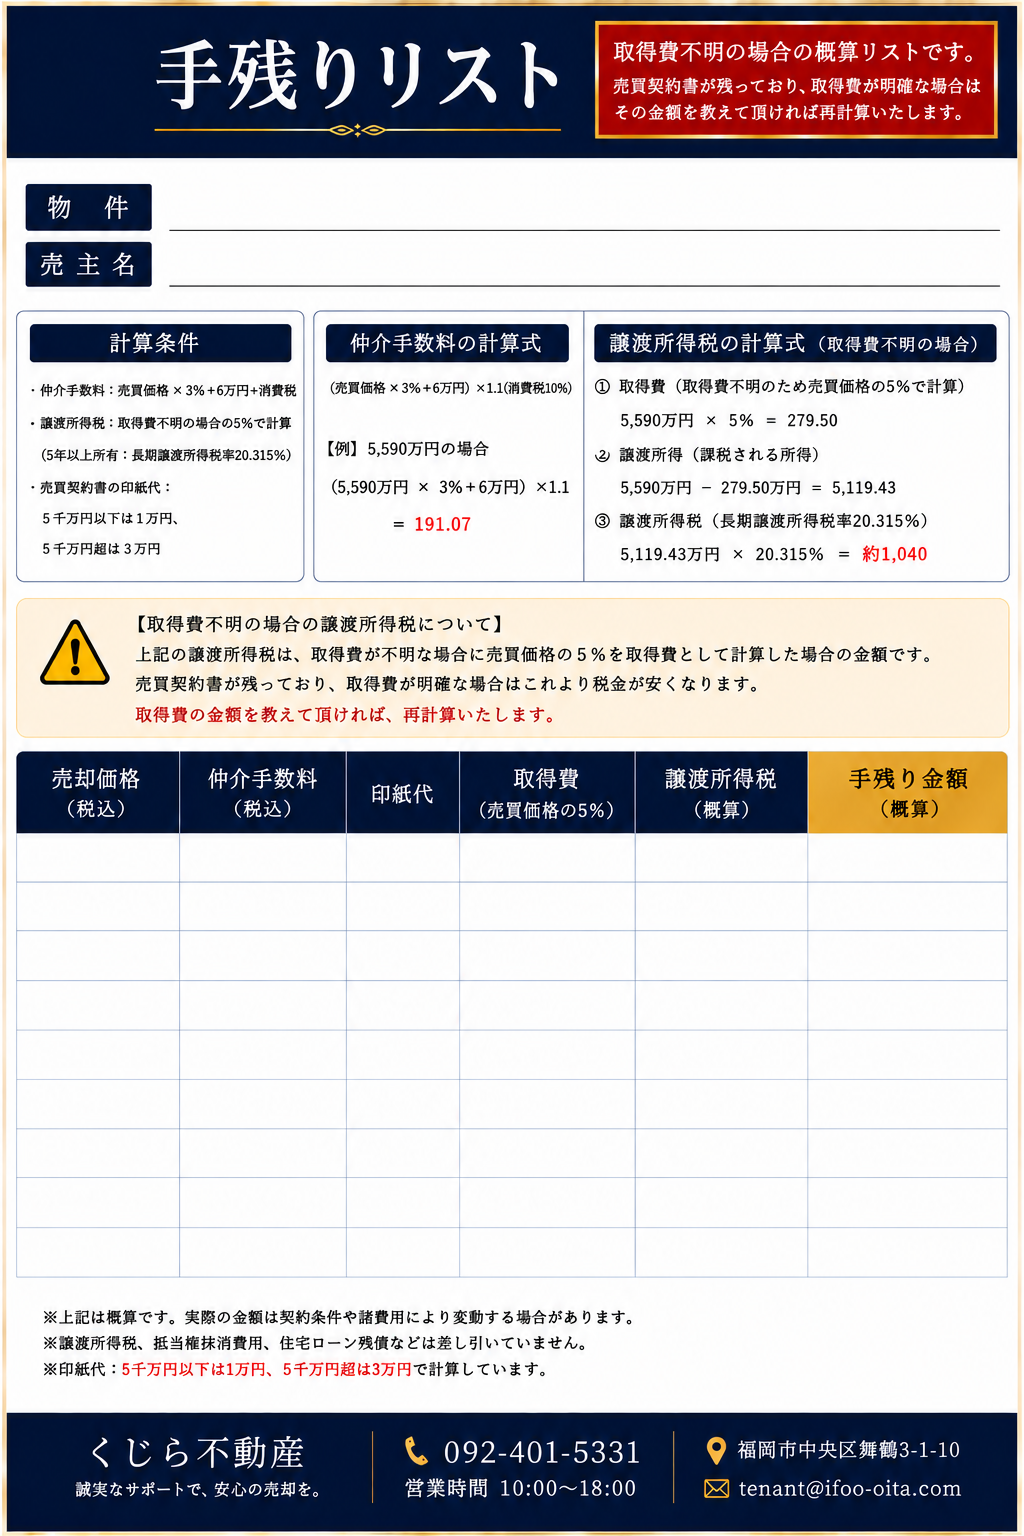
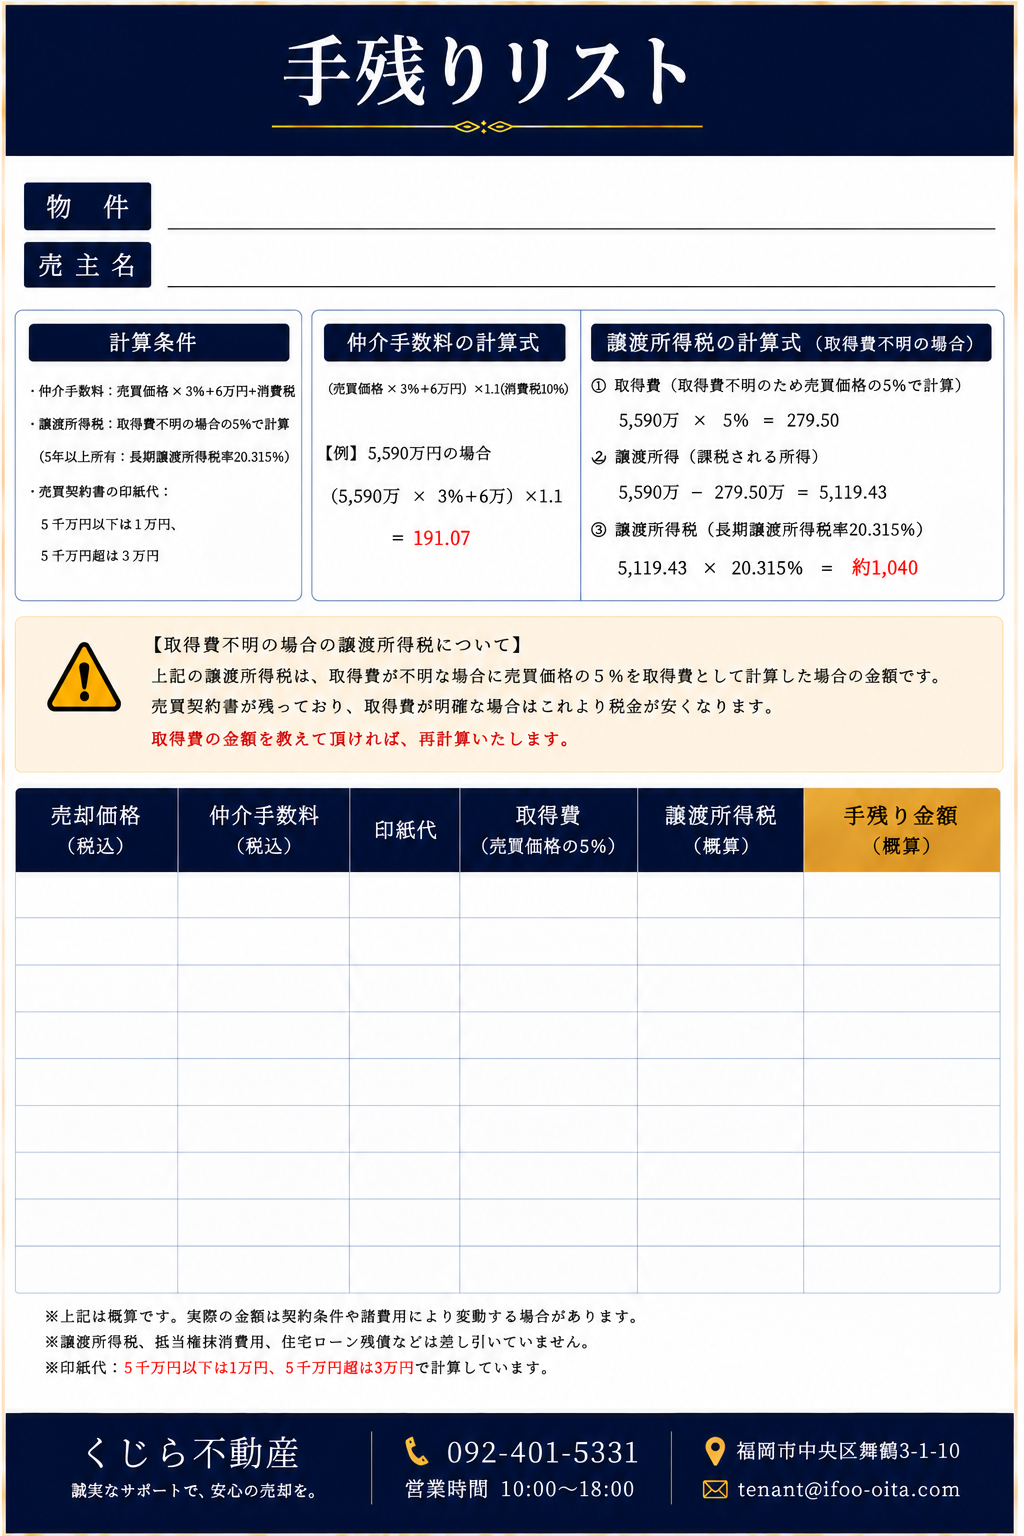
fix: 手残りリスト 全列top+3mm / template2強制再デプロイ(v=20260807d)

diff --git a/frontend/frontend/src/components/NetProceedsListModal.tsx b/frontend/frontend/src/components/NetProceedsListModal.tsx
@@ -505,7 +505,7 @@ function buildNetProceedsHtml(p: BuildHtmlParams): string {
 </style>
 </head><body>
 <div class="a4">
-  <img class="bg" src="/sale-schedule/illustrations/template2.png?v=20260807c" alt="" />
+  <img class="bg" src="/sale-schedule/illustrations/template2.png?v=20260807d" alt="" />
   <div class="layer">
     ${debug ? buildNpDebugGrid() : ''}
 
@@ -521,7 +521,7 @@ function buildNetProceedsHtml(p: BuildHtmlParams): string {
     <!-- 行1のY座標(仮): top≈122mm -->
     ${p.rows.length > 0 ? (() => {
       const row = p.rows[0];
-      const rowTop = 157;
+      const rowTop = 160;
       const rowH = 7;
       const fmtM = p.fmtMan;
       const acqCost = p.taxMode !== 'none' && p.taxDetail ? p.taxDetail.acquisitionCostUsed : 0;
